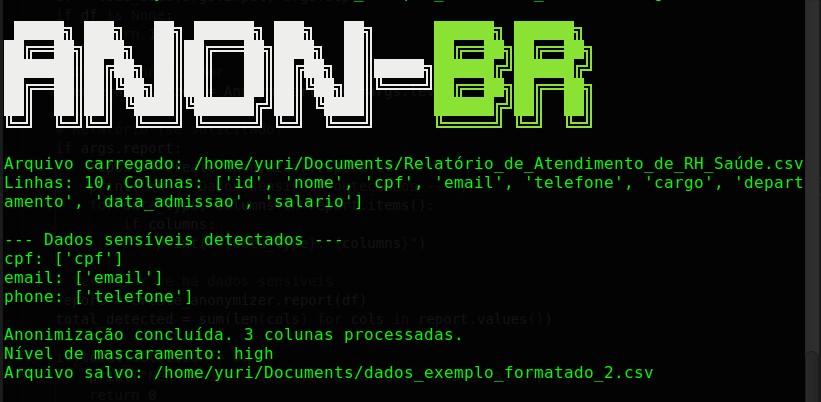
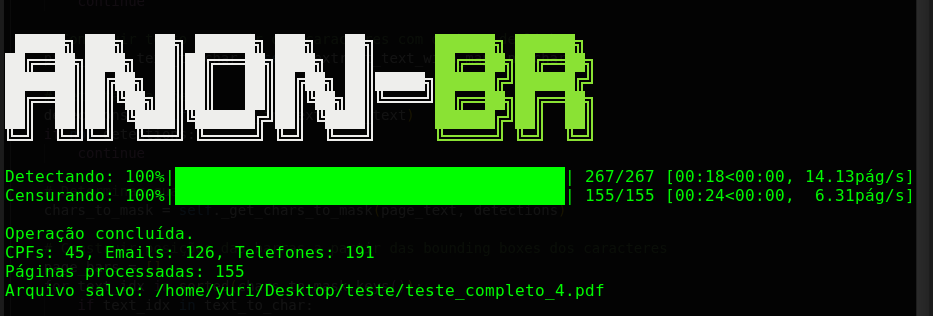
docs: adicionar nova imagem de exemplo de output com barra de progresso

diff --git a/README.md b/README.md
@@ -178,7 +178,7 @@ A lista de comandos irá aparecer no terminal caso execute o arquivo sem nenhum 
 
 **Imagem do output:** 
 
-![Exemplo output](images/exemplo_output.png)
+![Exemplo output](images/exemplo_output_csv.png)
 
 **Explicação:** O usuário inseriu o local e o nome da planilha de origem `documentos/Relatório_de_Atendimento_de_RH_Saúde.csv`, definiu o local e o nome da planilha de destino `documentos/relatorio_de_atendimento_de_rh_saude.csv`, definiu o nível de sencura `-l high` (alto), e escolheu exibir detalhes dos dados detectados no terminal `-r`. O diretório de destino será criado caso não exista.
 

diff --git a/OUTPUT_EXEMPLE.md b/OUTPUT_EXEMPLE.md
@@ -20,4 +20,5 @@ A biblioteca oferece três níveis de privacidade. Cada nível controla quanta i
 
 ---
 
+![Exemplo de output](/images/exemplo_output.png)
 
